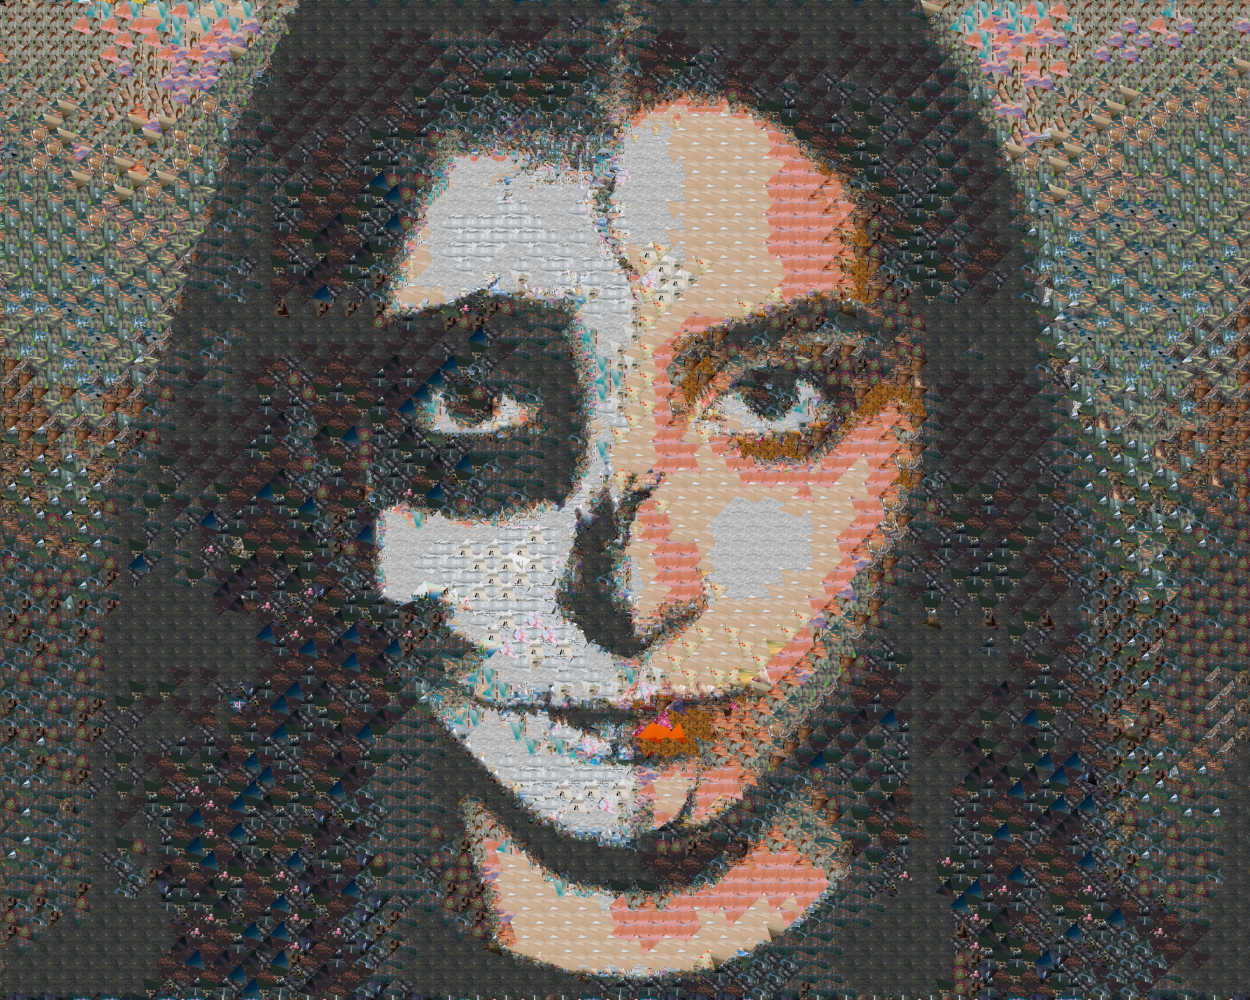
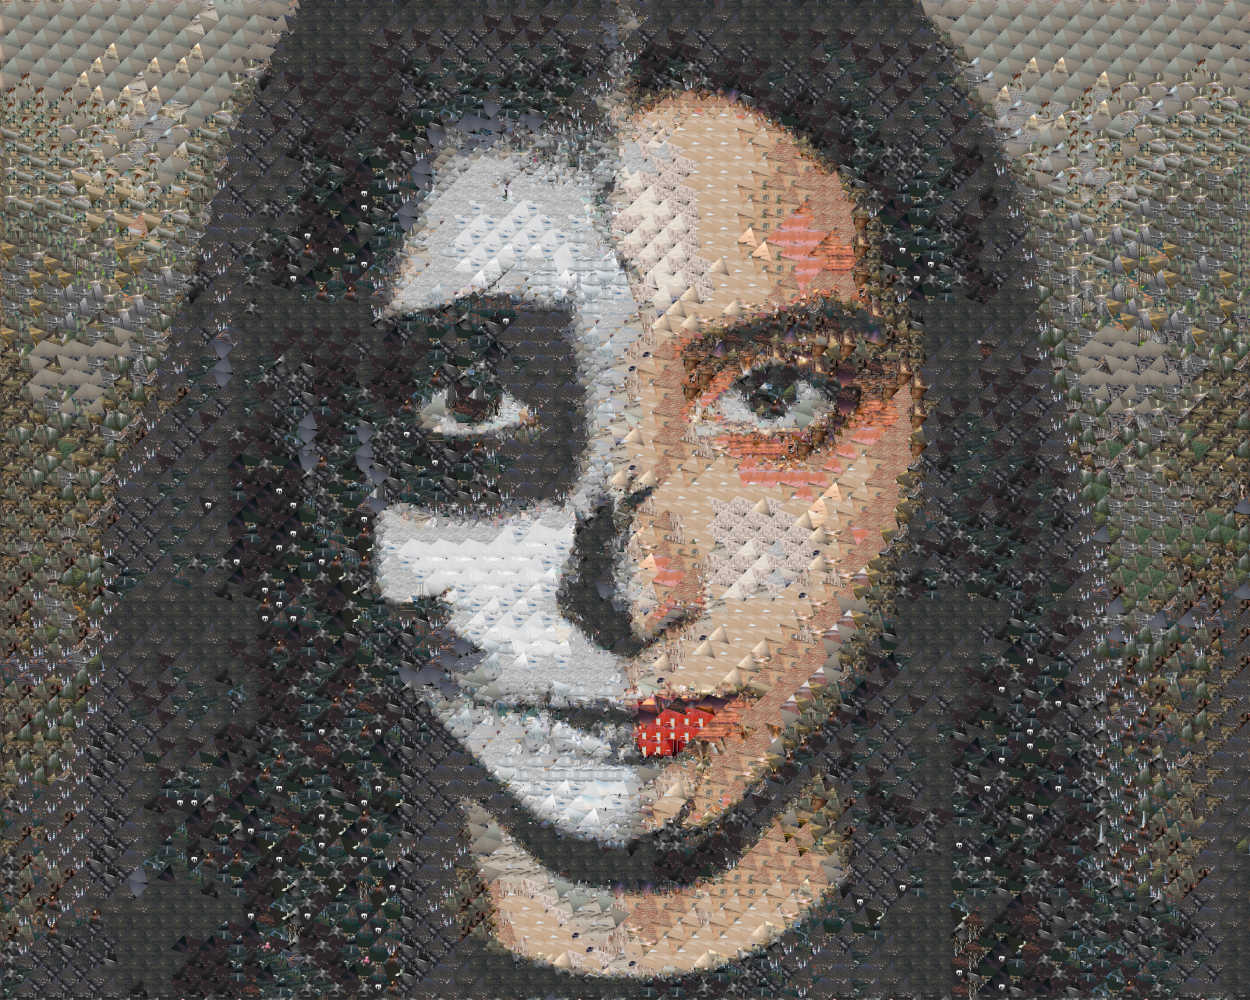
Fixed release page. Updated examples in main page.

diff --git a/index.html b/index.html
@@ -57,10 +57,10 @@
 						<img src="photomosaic/edgar-perez-preview.jpg" alt="Example Photomosaic - Edgar Perez" width="100%" height="100%">
 					</a>
 					<figcaption>Original image by <a href="https://unsplash.com/@_the_edgar">Edgar Perez on Unsplash</a>.
-					Created in 24.4s (CUDA) vs 193.5s (CPU) using: </br>
-					Size 7500px by 6000px, Detail 50%, Mode CIE76, 315 Library Images </br>
+					Created in 74.3s using: </br>
+					Size 7500px by 6000px, Detail 50%, Mode CIE76, 1308 Library Images </br>
 					Cell Size 128px, Minimum Cell Size 64px, Cell Shape IsocelesTriangle-45deg.mcs </br>
-					Repeat Range 20, Repeat Range 300
+					Repeat Range 20, Repeat Addition 200
 					</figcaption>
 				</figure>
 				<figure>
@@ -68,10 +68,10 @@
 						<img src="photomosaic/annie-spratt-preview.jpg" alt="Example Photomosaic - Annie Spratt" width="100%" height="100%">
 					</a>
 					<figcaption>Original image by <a href="https://unsplash.com/@anniespratt">Annie Spratt on Unsplash</a>.
-					Created in 14.6s (CUDA) vs 167.7s (CPU) using: </br>
-					Size 8000px by 5324px, Detail 50%, Mode CIE76, 315 Library Images </br>
+					Created in 47.6s using: </br>
+					Size 8000px by 5324px, Detail 50%, Mode CIE76, 1308 Library Images </br>
 					Cell Size 128px, Minimum Cell Size 64px, Cell Shape Circle.mcs </br>
-					Repeat Range 20, Repeat Range 300
+					Repeat Range 20, Repeat Addition 200
 					</figcaption>
 				</figure>
 				<figure>
@@ -79,21 +79,21 @@
 						<img src="photomosaic/linnea-sandbakk-preview.jpg" alt="Example Photomosaic - Linnea Sandbakk" width="100%" height="100%">
 					</a>
 					<figcaption>Original image by <a href="https://unsplash.com/@linneasandbakk">Linnea Sandbakk on Unsplash</a>.
-					Created in 19.0s (CUDA) vs 208.2s (CPU) using: </br>
-					Size 5332px by 8000px, Detail 50%, Mode CIE76, 315 Library Images </br>
-					Cell Size 128px, Minimum Cell Size 64px, Cell Shape Hexagon.mcs </br>
-					Repeat Range 10, Repeat Range 300
+					Created in 316.7s (CUDA) vs 2474.0s (CPU) using: </br>
+					Size 5332px by 8000px, Detail 50%, Mode CIEDE2000, 1308 Library Images </br>
+					Cell Size 128px, Minimum Cell Size 128px, Cell Shape YinAndYang.mcs </br>
+					Repeat Range 20, Repeat Addition 200
 					</figcaption>
 				</figure>
 				<figure>
-					<a href="photomosaic/abbs-johnson.jpg">
-						<img src="photomosaic/abbs-johnson-preview.jpg" alt="Example Photomosaic - Abbs Johnson" width="100%" height="100%">
+					<a href="photomosaic/roi-dimor.jpg">
+						<img src="photomosaic/roi-dimor-preview.jpg" alt="Example Photomosaic - Roi Dimor" width="100%" height="100%">
 					</a>
-					<figcaption>Original image by <a href="https://unsplash.com/@abbsjohnson">Abbs Johnson on Unsplash</a>.
-					Created in 6.4s (CUDA) vs 95.6s (CPU) using: </br>
-					Size 4000px by 6000px, Detail 50%, Mode RGB Euclidean, 315 Library Images </br>
+					<figcaption>Original image by <a href="https://unsplash.com/@roi_dimor">Roi Dimor on Unsplash</a>.
+					Created in 118.7s (CUDA) vs 1644.8s (CPU) using: </br>
+					Size 4000px by 6000px, Detail 50%, Mode CIEDE2000, 1308 Library Images </br>
 					Cell Size 128px, Minimum Cell Size 64px, Cell Shape Square </br>
-					Repeat Range 15, Repeat Range 100
+					Repeat Range 20, Repeat Addition 200
 					</figcaption>
 				</figure>
 				<figure>
@@ -101,10 +101,10 @@
 						<img src="photomosaic/anthony-tran-preview.jpg" alt="Example Photomosaic - Anthony Tran" width="100%" height="100%">
 					</a>
 					<figcaption>Original image by <a href="https://unsplash.com/@anthonytran">Anthony Tran on Unsplash</a>.
-					Created in 13.7s (CUDA) vs 106.8s (CPU) using: </br>
-					Size 6000px by 3999px, Detail 50%, Mode CIE76, 315 Library Images </br>
+					Created in 31.3s using: </br>
+					Size 6000px by 3999px, Detail 50%, Mode RGB Euclidean, 1308 Library Images </br>
 					Cell Size 128px, Minimum Cell Size 64px, Cell Shape IsocelesTriangle.mcs </br>
-					Repeat Range 20, Repeat Range 300
+					Repeat Range 20, Repeat Addition 200
 					</figcaption>
 				</figure>
 			</div>

diff --git a/about.html b/about.html
@@ -74,8 +74,6 @@
 					</p></li>
 					<li><p>
 					Mode: Controls which comparison formulae to use when comparing images. There are currently three formulae implemented (in order of increasing time complexity and result accuracy): RGB Euclidean, CIE76, CIEDE2000.
-					<br>
-					<i>Note: Depending on the contents of your Image Library you may find result accuracy to vary.</i>
 					</p></li>
 					<li><p>
 					Custom Cell Shapes: Mosaic Magnifique comes with a collection of .mcs files, which are custom cell shapes I have created. You can create your own in the 'Cell Shape' tab of the app. You provide an image that defines the cell shape, and then control how the cell is used with the following options:
@@ -93,7 +91,7 @@
 					Colour Visualisation: Allows you to compare colours of your Image Library and main image. Provides you with a list of colours that will improve your Image Library for the current image.
 					</p></li>
 					<li><p>
-					CUDA: If you have a <a href="https://developer.nvidia.com/cuda-gpus">CUDA-capable GPU</a> then you can use the CUDA version to create Photomosaics using your GPU. This can result in considerably faster results.
+					CUDA: If you have a <a href="https://developer.nvidia.com/cuda-gpus">CUDA-capable GPU</a> then you can use the CUDA version to create Photomosaics using your GPU. CIEDE2000 results are much faster (RGB Euclidean and CIE76 are unlikely to be faster though).
 					</p></li>
 					<li><p>
 					Background Colour: The Photomosaic background colour can be fully changed (including alpha).

diff --git a/releases.html b/releases.html
@@ -91,7 +91,7 @@
 		
 		<!-- JavaScript to get all releases -->
 		<script type="module">
-			import { request } from 'https://cdn.pika.dev/@octokit/request';
+			import { request } from 'https://cdn.skypack.dev/@octokit/request';
 			
 			// Returns <li><a href=link>name</a></li>
 			function createLink(name, url) {
@@ -144,6 +144,8 @@
 					owner: "MorganGrundy",
 					repo: "MosaicMagnifique"
 				});
+				
+				console.log(result);
 				
 				var releaseDiv = document.getElementById("releases");
 				
